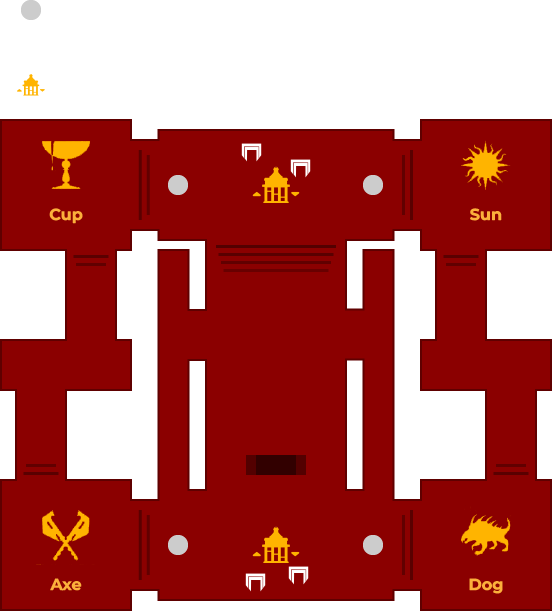
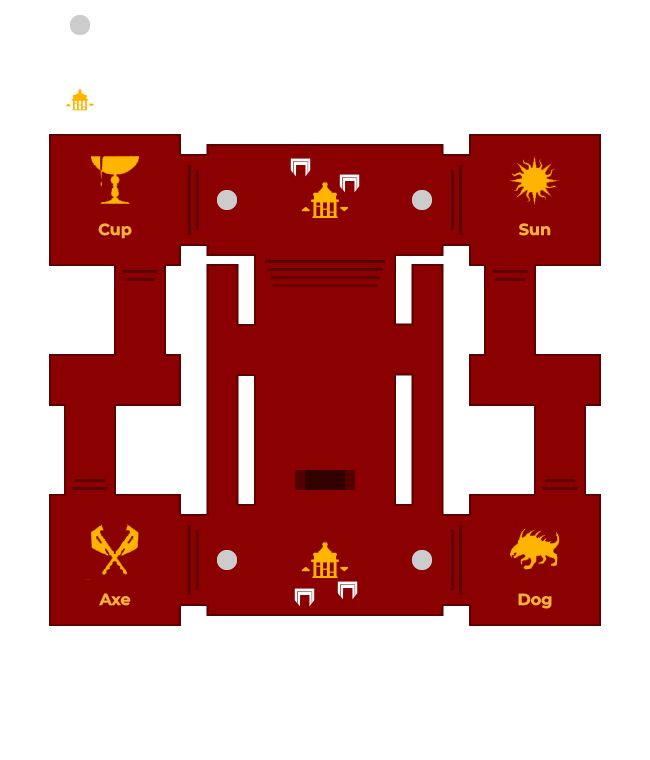
Improved Duality Enc 1 image

diff --git a/app/image_sources/dungeons/duality/1/styles.module.css b/app/image_sources/dungeons/duality/1/styles.module.css
@@ -44,6 +44,6 @@
 .image {
     margin-inline: auto;
     margin-top: 3rem;
-    width: 90%;
-    height: 90%;
+    height: 100%;
+    width: auto;
 }
